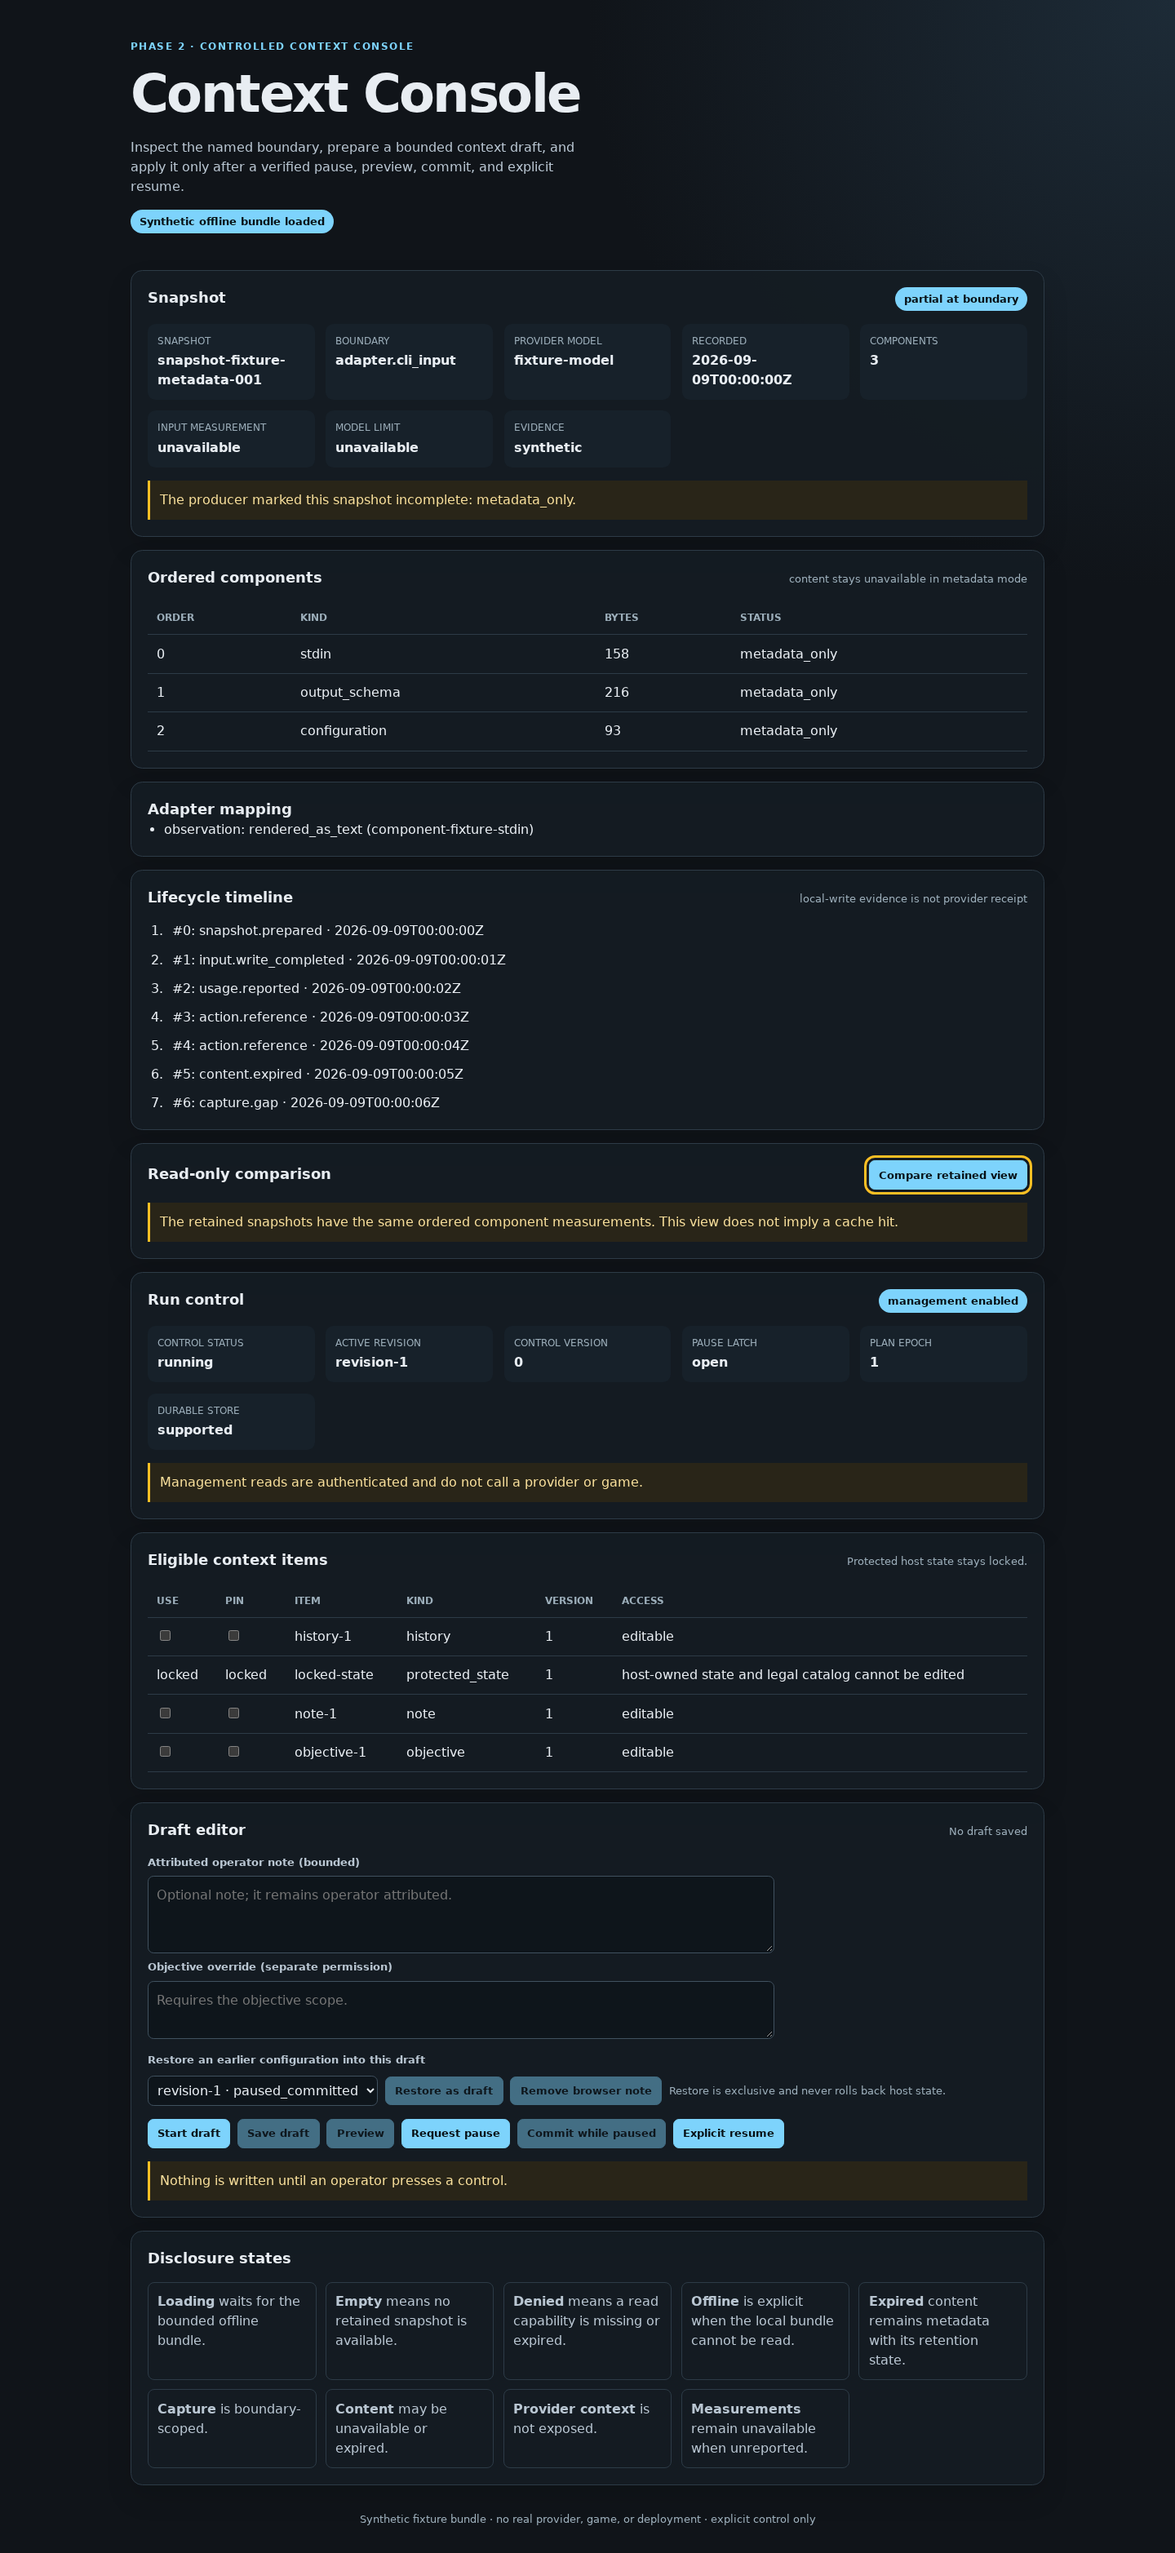
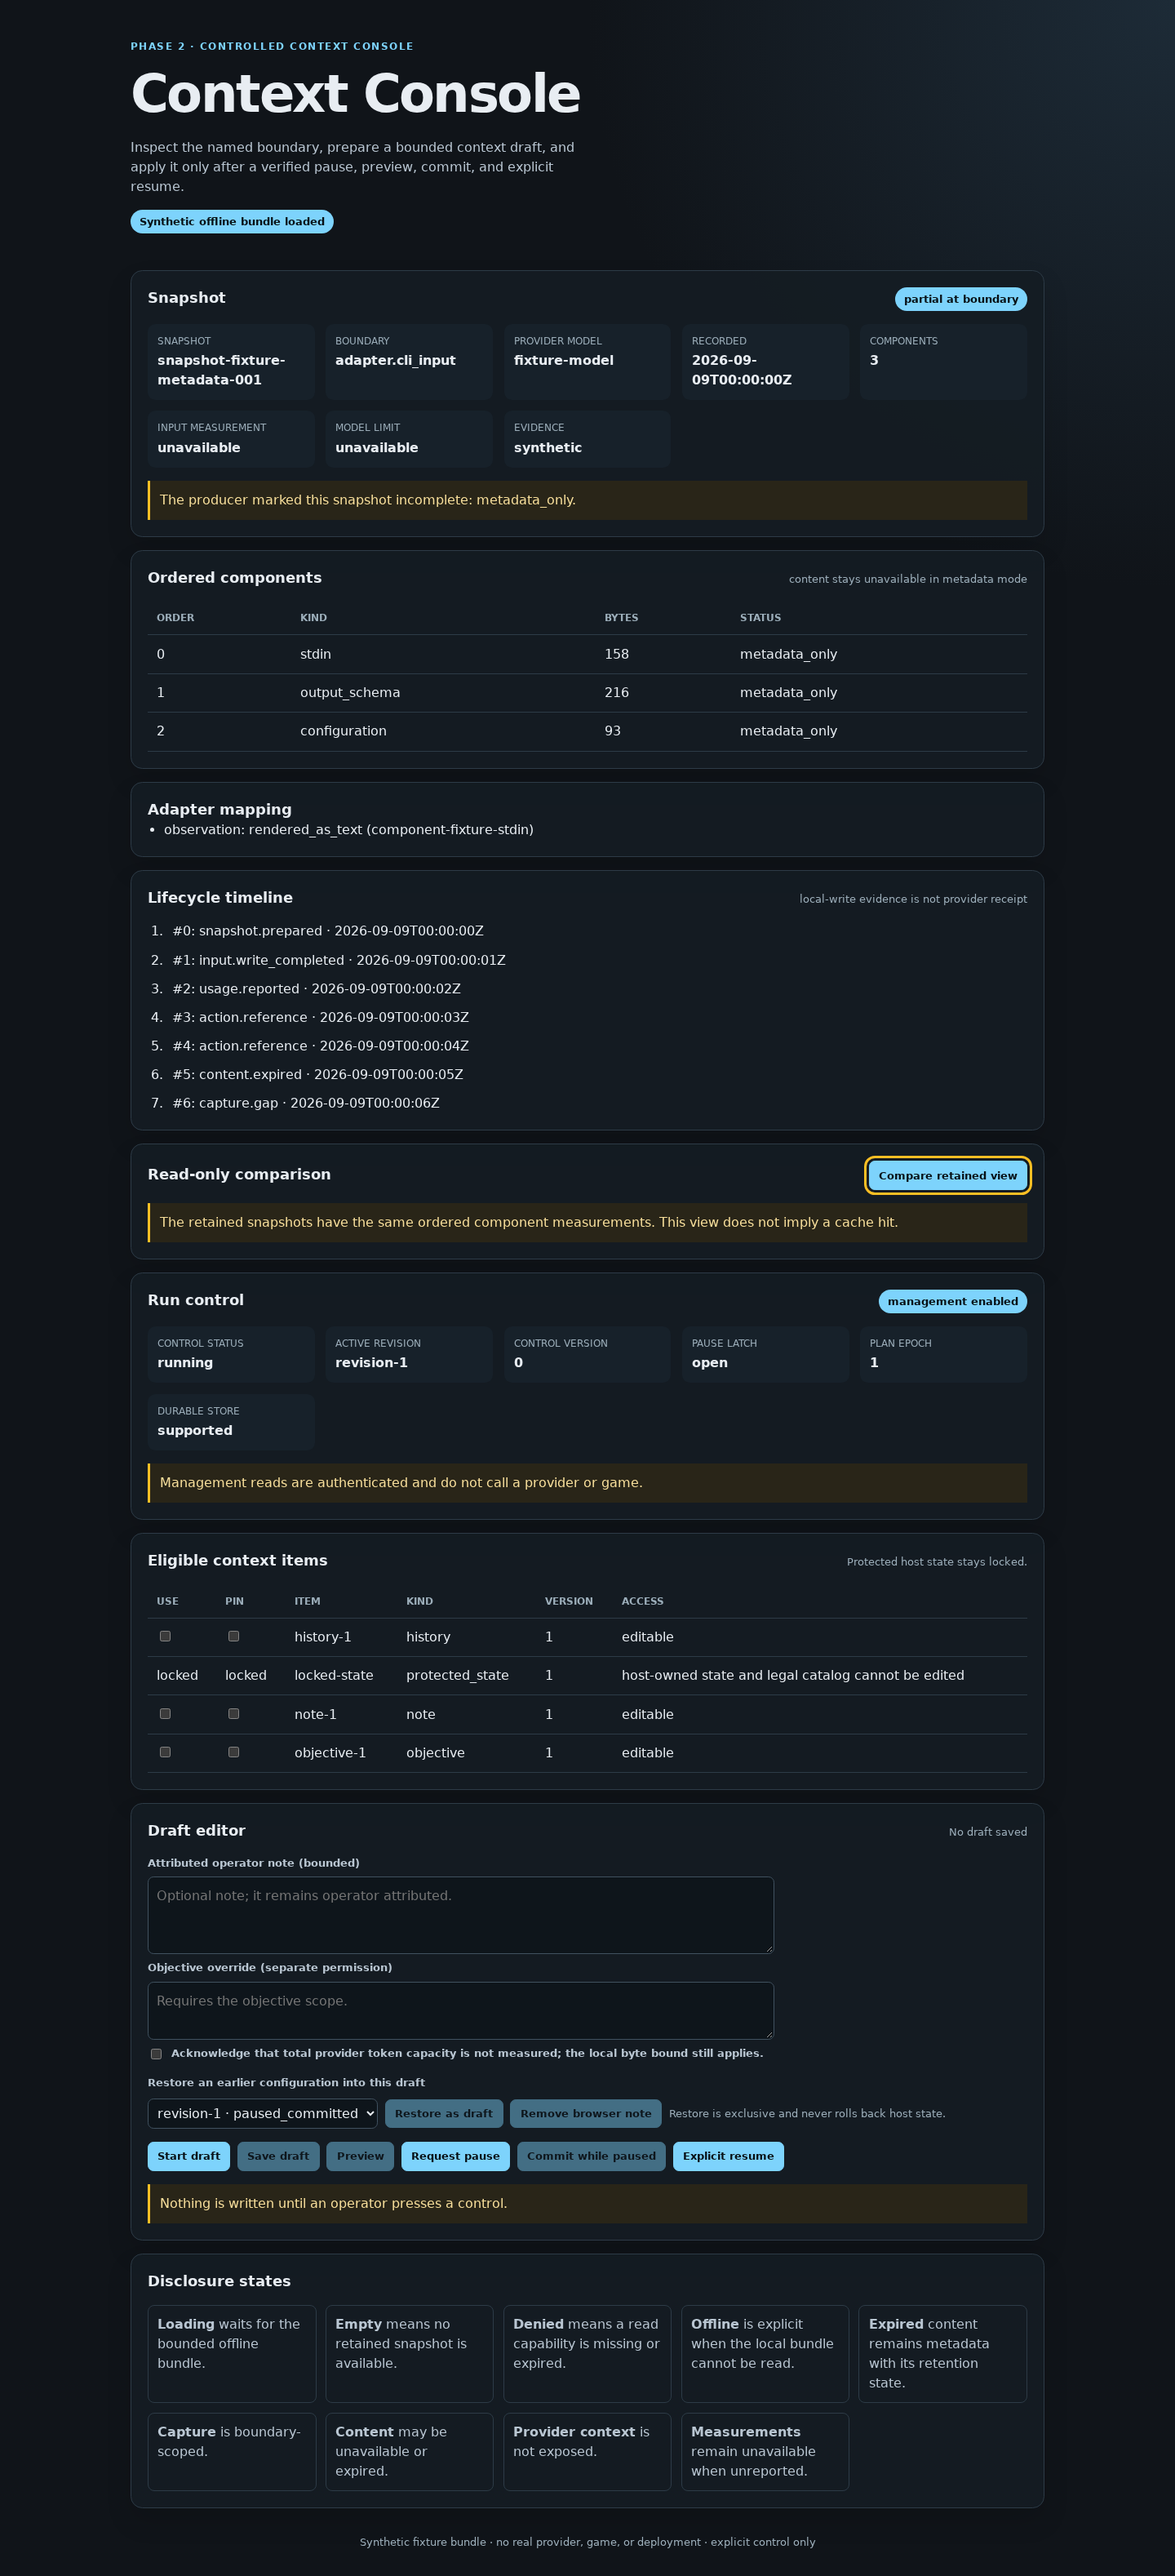
Record final Phase 2 evidence handoff

diff --git a/docs/evidence/phase2-completion-report-20260910.md b/docs/evidence/phase2-completion-report-20260910.md
@@ -2,7 +2,7 @@
 
 This is the review record for the Phase 2 draft branches. Phase 1 was merged first, then the existing target repositories were extended; no Phase 2 branch was merged, released, deployed, or used against a live provider/game.
 
-Target: [ascension-context-console PR #3](https://github.com/AI-Ascension/ascension-context-console/pull/3), implementation source `46167a20b8d63d0b570c987a532fad1d05b88e69`, evidence handoff `6a8b3664e1f9dfe891d1422434f310f25c90a343`. Companion: [sts2-harness PR #60](https://github.com/AI-Ascension/sts2-harness/pull/60) at `7580619964ad73fd107031fb5bf6a1a6f5c9e3ec`. The target and companion heads are cross-linked in both PR bodies. Contract source pins and SHA-256 values are in `contracts/context-control/README.md`.
+Target: [ascension-context-console PR #3](https://github.com/AI-Ascension/ascension-context-console/pull/3), implementation source `62715332a08bda38b54f64b718043820ac3f3439`, evidence handoff `6a8b3664e1f9dfe891d1422434f310f25c90a343`. Companion: [sts2-harness PR #60](https://github.com/AI-Ascension/sts2-harness/pull/60) at `7580619964ad73fd107031fb5bf6a1a6f5c9e3ec`. The target and companion heads are cross-linked in both PR bodies. Contract source pins and SHA-256 values are in `contracts/context-control/README.md`.
 
 The implementation is disabled outside the synthetic management fixture. The target control plane
 never calls a provider or game; its integrated fixture now starts from an opt-in encrypted SQLite
@@ -18,20 +18,22 @@ The target and companion each passed `cargo fmt --all -- --check`, strict reposi
 The Phase 2 browser audit now passes with the bounded Chromium/Playwright environment: it exercises
 draft save, note/objective entry, typed pinning and restore, exploratory and applicable previews,
 pause, commit-while-paused, explicit resume, control events, authorization denial probes, zero
-provider/game effects, the target durable-store capability, storage, network, keyboard and narrow-layout assertions. Native depth-2/3
+provider/game effects, the target durable-store capability, unknown-capacity acknowledgement,
+unsupported-image rejection, forged actor/role rejection, storage, network, keyboard and
+narrow-layout assertions. Native depth-2/3
 Luna/max descendants and reservation metadata remain unavailable;
 see `docs/evidence/phase2-native-preflight-20260910.json`.
 
 The compiled operator CLI is covered by [`docs/evidence/phase2-cli-20260910.json`](phase2-cli-20260910.json):
 separate processes run the encrypted durable edit/preview/pause/commit/resume sequence, default
-content redaction, explicit content permission, typed stdin editing, duplicate-key rejection, and
-the 16 KiB input bound. The CLI emits the documented machine schema and makes zero provider, game,
-or external requests.
+content redaction, explicit content permission, typed stdin editing, duplicate-key rejection, the
+16 KiB input bound, and denial of edits when no durable store exists. The CLI emits the documented
+machine schema and makes zero provider, game, or external requests.
 
 The checked-in `docs/evidence/phase2-failure-matrix-20260910.json` enumerates all 80 package
-failure rows. Forty-nine rows have executable evidence: the browser cases (`P2-F001`,
+failure rows. Fifty-four rows have executable evidence: the browser cases (`P2-F001`,
 `P2-F003`, `P2-F004`, `P2-F005`, `P2-F006`, `P2-F007`, `P2-F010`, `P2-F011`, `P2-F012`, `P2-F017`,
-`P2-F022`, `P2-F031`, `P2-F073`, `P2-F074`, `P2-F075`, and `P2-F076`) plus the companion
+`P2-F022`, `P2-F031`, `P2-F033`, `P2-F034`, `P2-F073`, `P2-F074`, `P2-F075`, and `P2-F076`) plus the companion
 disabled-mode Astra/Ollama fidelity artifact and named Rust
 regressions for CAS, protected identity, restore, authorization, preview freshness/expiry,
 idempotency, plan fencing, stop dominance, safe deactivation, and the approved-resume guard, plus
@@ -39,7 +41,8 @@ target durable-store regressions for transaction rollback, wrong-key/tamper reje
 schema repair with Phase 1 byte retention, legacy active-state refusal, and companion owner fencing
 for `P2-F064`, plus the companion expired-pin and compiled fake-peer bridge regressions. The target
 boundary-change, expiry, and browser commit/resume regressions cover `P2-F050`, `P2-F054`, and
-`P2-F070`. The other 33 remain
+`P2-F070`; catalog/provider fingerprint, unknown-capacity, unsupported-image, and no-store edit
+regressions cover `P2-F028`, `P2-F029`, `P2-F033`, `P2-F034`, and `P2-F069`. The other 26 remain
 explicitly marked `required_not_executed` because they require crash windows not injected here,
 live provider/game effects, native ownership controls, or other evidence outside this fixture.
 
@@ -116,7 +119,7 @@ Statuses mean: **executed** has a local executable assertion or gate; **source-r
 
 ## Failure and recovery coverage
 
-The 15 target control tests plus 17 row-level failure tests cover protected edits, draft CAS,
+The 16 target control tests plus 19 row-level failure tests cover protected edits, draft CAS,
 objective authorization, typed pin/exclude/restore, protected identity aliases,
 exploratory/applicable preview, pause/commit/resume, stale boundaries, idempotent receipts,
 command-window expiry, changed-body conflicts, journal tamper/recovery, disabled mode, and stop
@@ -126,13 +129,13 @@ immutable snapshot backup. The companion tests cover
 prepared Exo bytes, legacy parity, controller recovery, invalid UTF-8/expiry/pin rejection, actual
 serialized Ollama/Astra bridge inputs, and eight durable-store migration/integrity cases, including
 replacement-owner fencing for old live handles, documented in the [companion evidence record](https://github.com/AI-Ascension/sts2-harness/blob/7580619964ad73fd107031fb5bf6a1a6f5c9e3ec/docs/evidence/context-control-store-20260910.md).
-The compiled target CLI suite adds six tests for durable command sequencing, explicit content
+The compiled target CLI suite adds seven tests for durable command sequencing, explicit content
 permission, stdin parsing bounds, unavailable-store exit classification, and no-mutation rejection
-paths.
+paths, including a denied edit that leaves no durable file or WAL behind.
 The package’s bounded reference model additionally
 checked 12,389 transitions and eight targeted scenarios across 1,802 states; it does not validate
 Rust storage, authentication, provider behavior, game effects, or native topology. The package
-failure matrix has 80 rows. The row-level ledger records 49 executed cases and 31
+failure matrix has 80 rows. The row-level ledger records 54 executed cases and 26
 `required_not_executed` rows; scenarios requiring production storage, live providers, native
 orchestration, or unavailable fault injection remain outside the evidence boundary.
 
